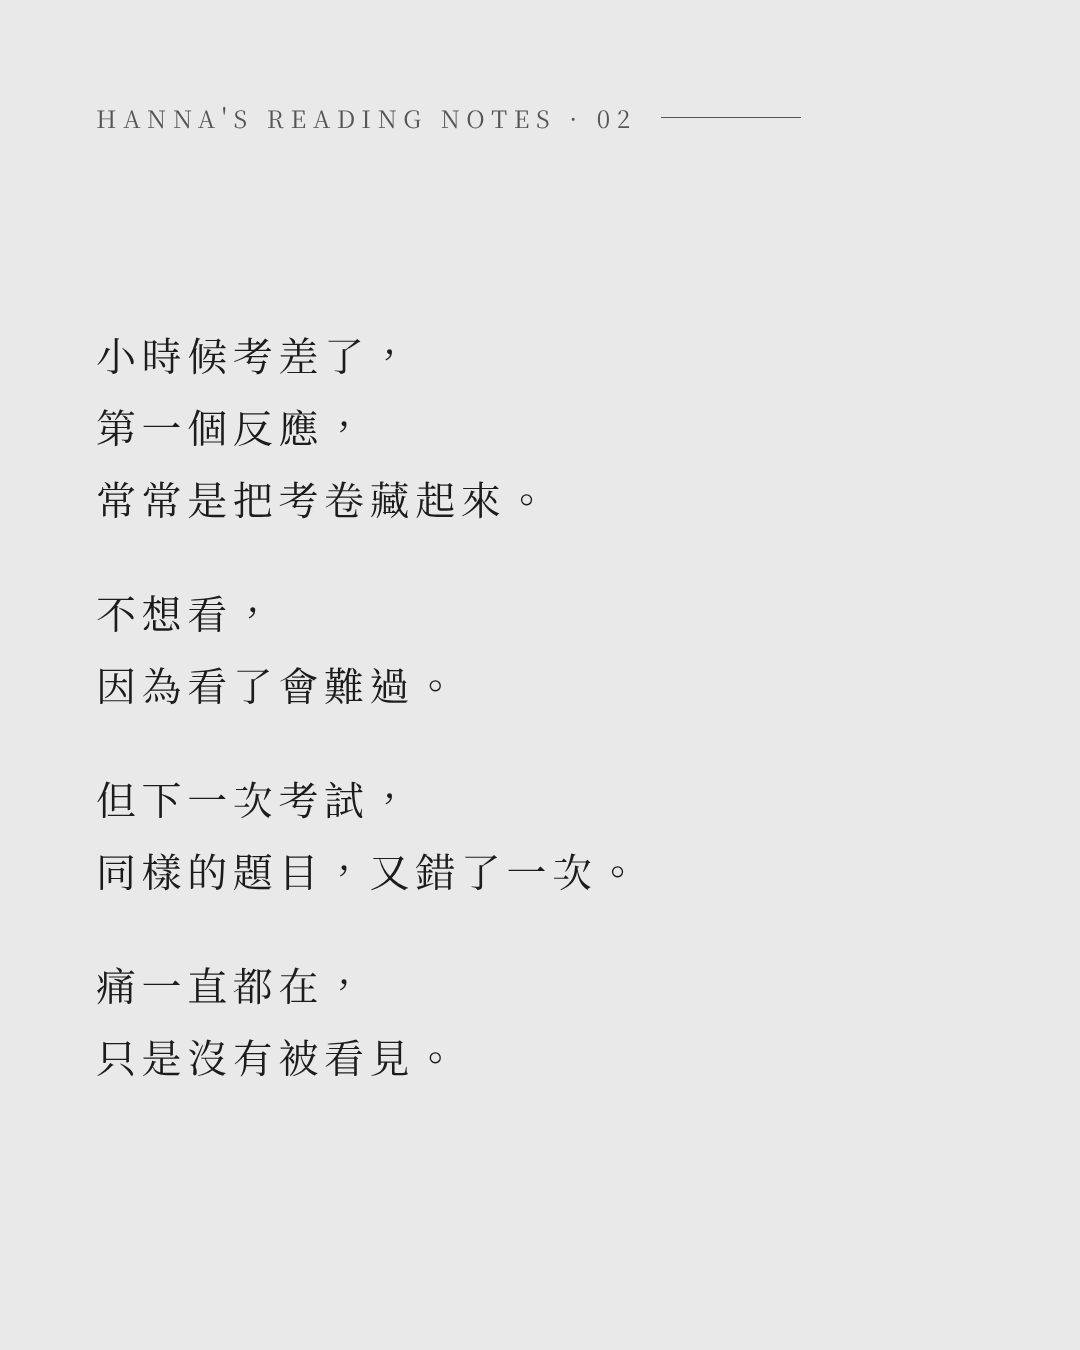
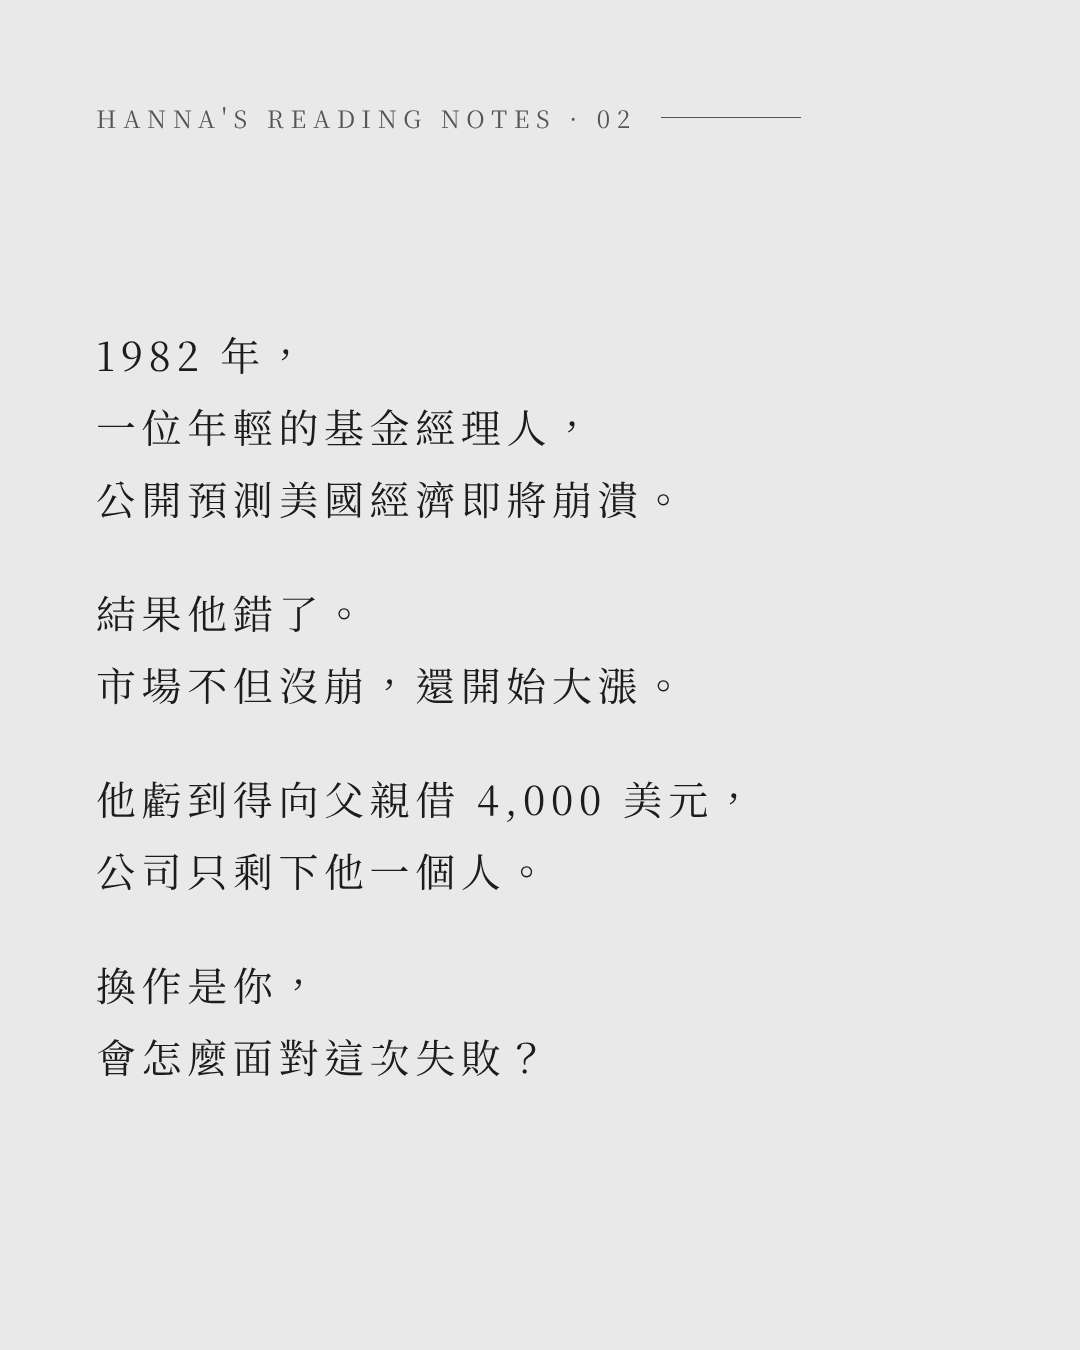
痛苦反思輪播：封面改成故事開場，前四張與內文開頭重新排序
Claude-Session: https://claude.ai/code/session_01AFjNkU8XspDCm6xvkskaQj

diff --git a/IP經營/輪播_痛苦反思/slides.html b/IP經營/輪播_痛苦反思/slides.html
@@ -52,30 +52,31 @@
 <body>
 
 <section class="slide cover">
-  <h1>考差的考卷<br>你會塞進抽屜<br>還是攤開來<br>再看一次？</h1>
+  <h1>他看錯一次<br>虧到跟爸爸借錢<br>後來養成一個習慣<br>打造全球最大避險基金</h1>
   <div class="person"></div>
   <div class="sign">Hanna</div>
 </section>
 
 <section class="slide"><div class="body">
-  <p>小時候考差了，<br>第一個反應，<br>常常是把考卷藏起來。</p>
-  <p>不想看，<br>因為看了會難過。</p>
-  <p>但下一次考試，<br>同樣的題目，又錯了一次。</p>
-  <p>痛一直都在，<br>只是沒有被看見。</p>
+  <p>1982 年，<br>一位年輕的基金經理人，<br>公開預測美國經濟即將崩潰。</p>
+  <p>結果他錯了。<br>市場不但沒崩，還開始大漲。</p>
+  <p>他虧到得向父親借 4,000 美元，<br>公司只剩下他一個人。</p>
+  <p>換作是你，<br>會怎麼面對這次失敗？</p>
 </div></section>
 
 <section class="slide"><div class="body">
-  <h2>一位基金經理人的公式</h2>
-  <p>全球最大避險基金橋水的創辦人<br><span class="en">Ray Dalio</span>，<br>在《原則》裡寫下一個公式：</p>
+  <h2>他養成的習慣，是反思</h2>
+  <p>這個人是 <span class="en">Ray Dalio</span>，<br>全球最大避險基金橋水的創辦人。</p>
+  <p>他把那次的教訓，<br>寫成《原則》裡的一個公式：</p>
   <p><b>痛苦 ＋ 反思 ＝ 進步</b></p>
-  <p>他認為，痛苦是一個訊號，<br>提醒你有些地方，<br>需要被好好看清楚。</p>
+  <p>從那之後，他不斷問自己：<br>「我怎麼知道我是對的？」</p>
 </div></section>
 
 <section class="slide"><div class="body">
-  <p>這個公式，<br>來自他自己最痛的一次。</p>
-  <p>1982 年，他公開預測<br>美國經濟即將崩潰。</p>
-  <p>結果他錯了。<br>他虧到得向父親借 4,000 美元，<br>公司只剩下他一個人。</p>
-  <p>從那之後，他開始問自己：<br>「我怎麼知道我是對的？」</p>
+  <p>但多數人面對錯誤的方式，<br>剛好相反。</p>
+  <p>小時候考差了，<br>第一個反應，<br>常常是把考卷藏起來。</p>
+  <p>不想看，因為看了會難過。</p>
+  <p>但下一次考試，<br>同樣的題目，又錯了一次。</p>
 </div></section>
 
 <section class="slide"><div class="body">

diff --git a/IP經營/輪播貼文_痛苦反思.md b/IP經營/輪播貼文_痛苦反思.md
@@ -6,23 +6,25 @@
 
 ## 貼文說明文字（Caption）
 
-最近在看 Ray Dalio 的《原則》。
+他看錯一次，虧到跟爸爸借錢。
+後來，卻打造了全球最大的避險基金。
 
-他是全球最大避險基金「橋水」的創辦人，
-在書裡寫下了一個很簡單的公式：
+1982 年，一位年輕的基金經理人，
+公開預測美國經濟即將崩潰。
 
-痛苦 ＋ 反思 ＝ 進步
-
-但讓我停下來想很久的，
-是這個公式背後的故事。
-
-1982 年，他公開預測美國經濟即將崩潰。
-結果他錯了。
-
+結果他錯了。市場不但沒崩，還開始大漲。
 他虧到得向父親借 4,000 美元，
 公司只剩下他一個人。
 
-從那之後，他開始問自己：
+這個人是 Ray Dalio，橋水基金的創辦人。
+
+最近在看他的《原則》，
+讓我停下來想很久的，
+是他從那次失敗裡寫下的公式：
+
+痛苦 ＋ 反思 ＝ 進步
+
+從那之後，他不斷問自己：
 「我怎麼知道我是對的？」
 
 這段我很有感，
